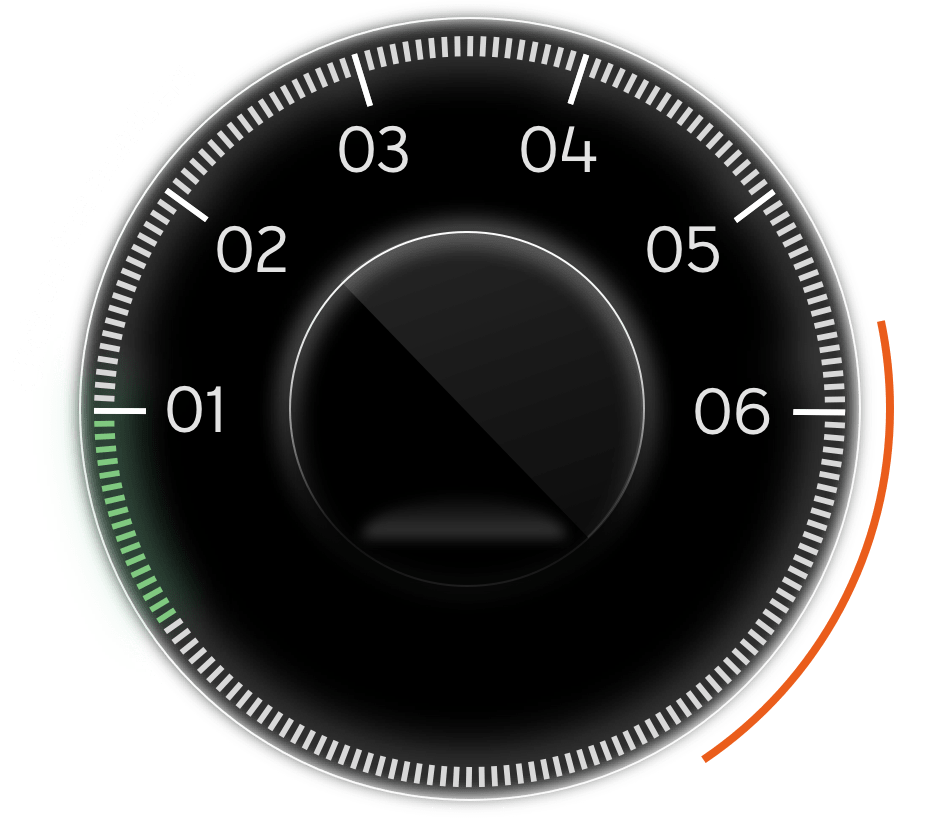
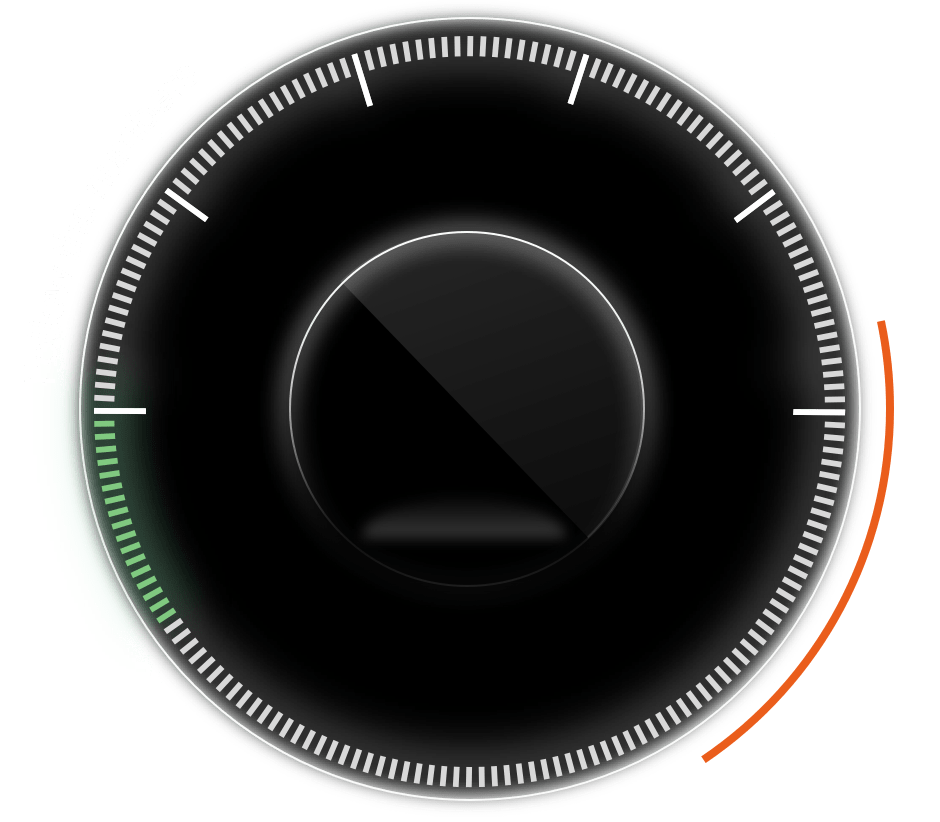
fix: more update assets

diff --git a/src/app/kombi/kombi.component.html b/src/app/kombi/kombi.component.html
@@ -51,7 +51,7 @@
   <div class="kombi-steps animate__animated animate__fadeIn animate__delay-1s">
     <img
       class="animate__animated animate__bounce animate__delay-3s"
-      src="assets/kombi/sphere_without.png"
+      src="assets/kombi/sphere.png"
     />
     <img
       id="kombi-needle"
